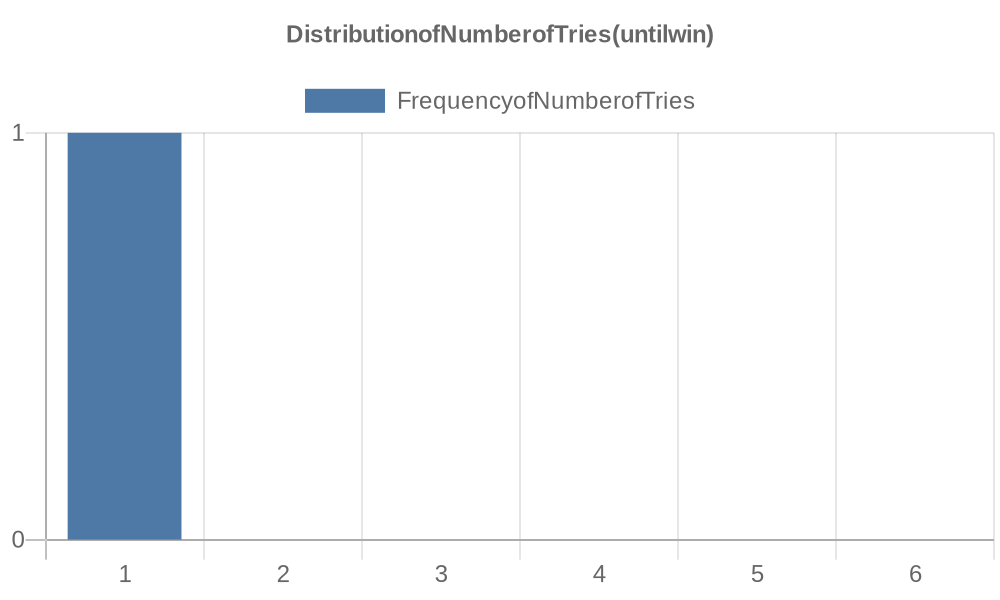
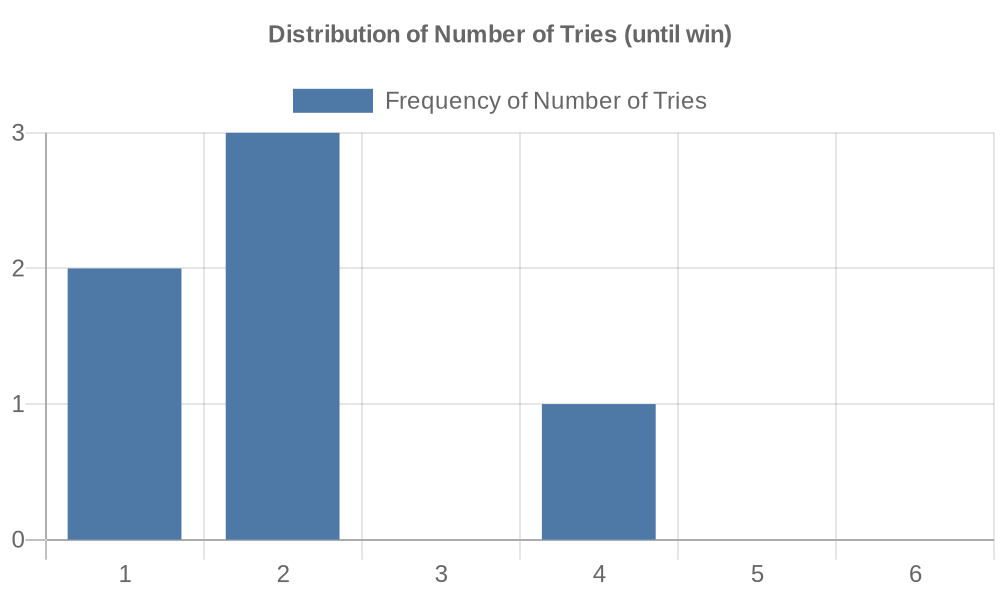
create stats window

diff --git a/src/StatsWindow.java b/src/StatsWindow.java
@@ -1,0 +1,84 @@
+import javax.swing.*;
+import javax.swing.border.EmptyBorder;
+import java.awt.*;
+import java.awt.datatransfer.Clipboard;
+import java.awt.datatransfer.StringSelection;
+import java.awt.event.ActionEvent;
+import java.awt.event.ActionListener;
+import java.io.IOException;
+import java.net.URI;
+import java.net.URISyntaxException;
+import java.util.Arrays;
+
+public class StatsWindow extends JFrame {
+    public StatsWindow() {
+        this.setTitle("Your Statistics");
+        this.setDefaultCloseOperation(JFrame.EXIT_ON_CLOSE);
+        this.setResizable(false);
+
+        JPanel statsPanel = new JPanel();
+        statsPanel.setLayout(new GridLayout(0, 2));
+        statsPanel.setPreferredSize(new Dimension(400, 300));
+        statsPanel.setBackground(Game.themeColours[0]);
+        statsPanel.setBorder(new EmptyBorder(0, 20, 0, 20));
+
+        String ratio = Game.losses == 0 ? "--" :
+                String.valueOf((double)Game.wins/Game.losses);
+        String[][] data = {
+                { "Points", Game.points+"/"+Game.pointsTotal },
+                { "Wins", String.valueOf(Game.wins) },
+                { "Losses", String.valueOf(Game.losses) },
+                { "W/L Ratio", ratio },
+        };
+
+        Font dataFont = new WFont(20);
+        for (String[] row : data) {
+            JLabel key = new JLabel(row[0]);
+            key.setForeground(Color.white);
+            key.setFont(dataFont);
+
+            JLabel value = new JLabel(row[1], SwingConstants.RIGHT);
+            value.setForeground(Color.white);
+            value.setFont(dataFont);
+
+            statsPanel.add(key);
+            statsPanel.add(value);
+        }
+
+        JPanel btnPanel = new JPanel();
+        btnPanel.setPreferredSize(new Dimension(400, 50));
+        btnPanel.setBackground(Game.themeColours[0]);
+        String triesData = Arrays.toString(Game.tries).replaceAll(" ", "");
+        String triesGraphLink = "https://quickchart.io/chart?c={%20type:%20%27bar%27,%20data:%20{%20labels:%20[1,2,3,4,5,6],%20datasets:%20[{%20label:%20%27Frequency%20of%20Number%20of%20Tries%27,%20data:%20"+
+                triesData+"%20}]%20},%20options:%20{%20title:%20{%20display:%20true,%20text:%20%27Distribution%20of%20Number%20of%20Tries%20(until%20win)%27%20},%20scales:%20{%20yAxes:%20[{%20ticks:%20{%20beginAtZero:%20true,%20stepSize:%201,%20}%20}]%20}%20}%20}";
+        JButton triesGraphBtn = new JButton("Copy Link to Tries Distribution");
+        triesGraphBtn.setFont(new WFont(14));
+        triesGraphBtn.addActionListener(e -> {
+            copyToClipboard(triesGraphLink);
+        });
+        btnPanel.add(triesGraphBtn);
+
+        JPanel mainPanel = new JPanel();
+        mainPanel.setLayout(new BorderLayout());
+        mainPanel.setBackground(Game.themeColours[0]);
+        mainPanel.setBorder(new EmptyBorder(0, 0, 20, 0));
+        mainPanel.add(statsPanel, BorderLayout.PAGE_START);
+        mainPanel.add(btnPanel, BorderLayout.PAGE_END);
+        this.add(mainPanel);
+        this.pack();
+
+        this.setLocationRelativeTo(null);
+        this.setIconImage(new ImageIcon(getClass().getResource("logo.png")).getImage());
+        this.setVisible(true);
+    }
+
+    // https://stackoverflow.com/a/46353370
+    private void copyToClipboard(String triesGraphLink) {
+        Toolkit.getDefaultToolkit()
+                .getSystemClipboard()
+                .setContents(
+                        new StringSelection(triesGraphLink),
+                        null
+                );
+    }
+}

diff --git a/src/Game.java b/src/Game.java
@@ -30,11 +30,11 @@ public class Game extends JPanel implements ActionListener, KeyListener {
             new Color(0xB59F3B),
             new Color(0x538D4E)
     };
-    private int points = 0;
-    private int pointsTotal = 6;
-    private int wins = 0;
-    private int losses = 0;
-    private int[] tries = new int[6];
+    public static int points = 0;
+    public static int pointsTotal = 6;
+    public static int wins = 0;
+    public static int losses = 0;
+    public static int[] tries = new int[6];
 
     public Game() {
         this.setBackground(themeColours[0]);
@@ -246,6 +246,7 @@ public class Game extends JPanel implements ActionListener, KeyListener {
             wins++;
             printWinLossRatio();
             tries[row]++;
+            /*
             String json = String.format("""
                     https://quickchart.io/chart?c={
                       type: 'bar',
@@ -280,6 +281,7 @@ public class Game extends JPanel implements ActionListener, KeyListener {
             } catch (IOException e) {
                 throw new RuntimeException(e);
             }
+            */
             return;
         }
         col = 0;

diff --git a/src/Main.java b/src/Main.java
@@ -24,6 +24,7 @@ public class Main {
             throw new RuntimeException(e);
         }
 
-        new Window();
+//        new Window();
+        new StatsWindow();
     }
 }
